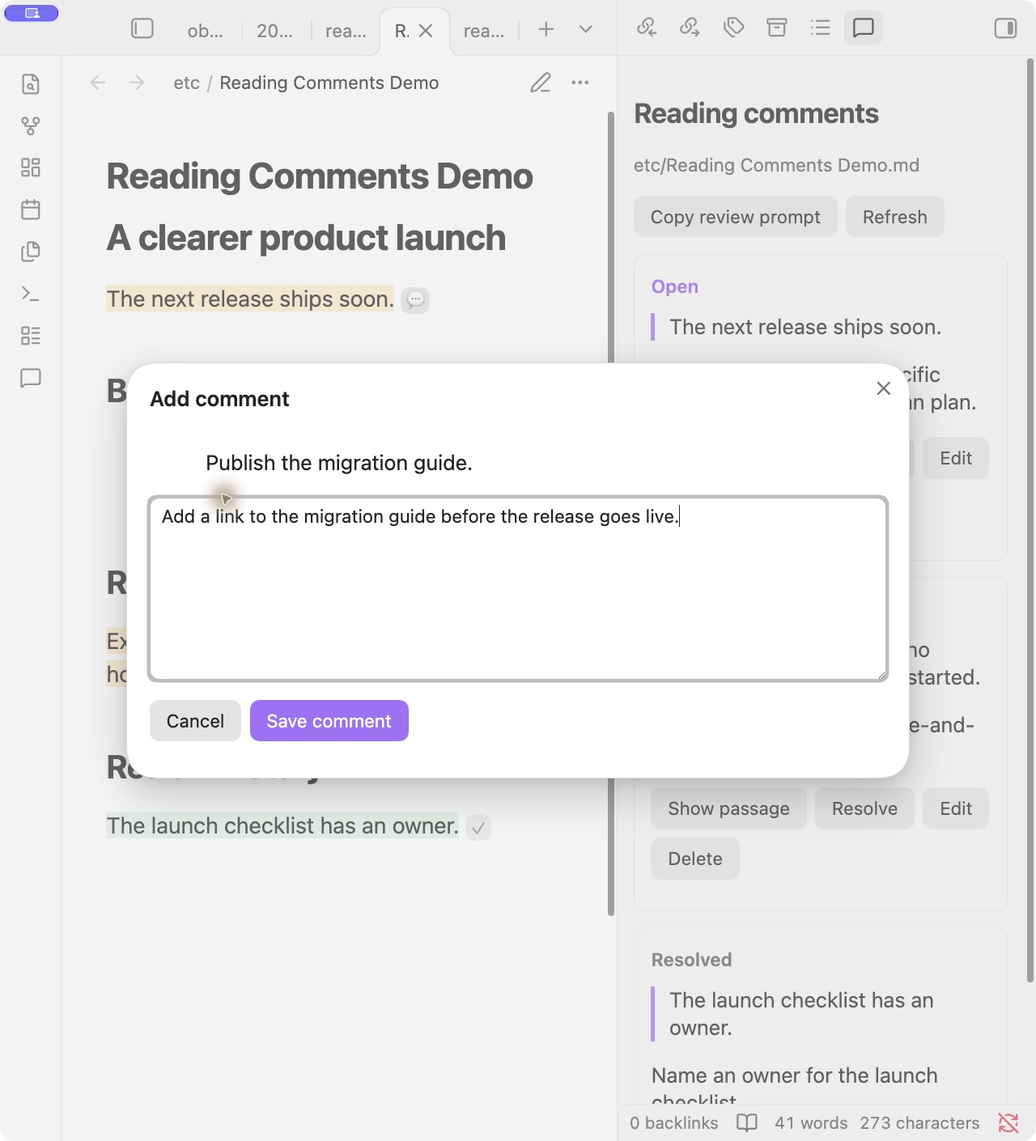
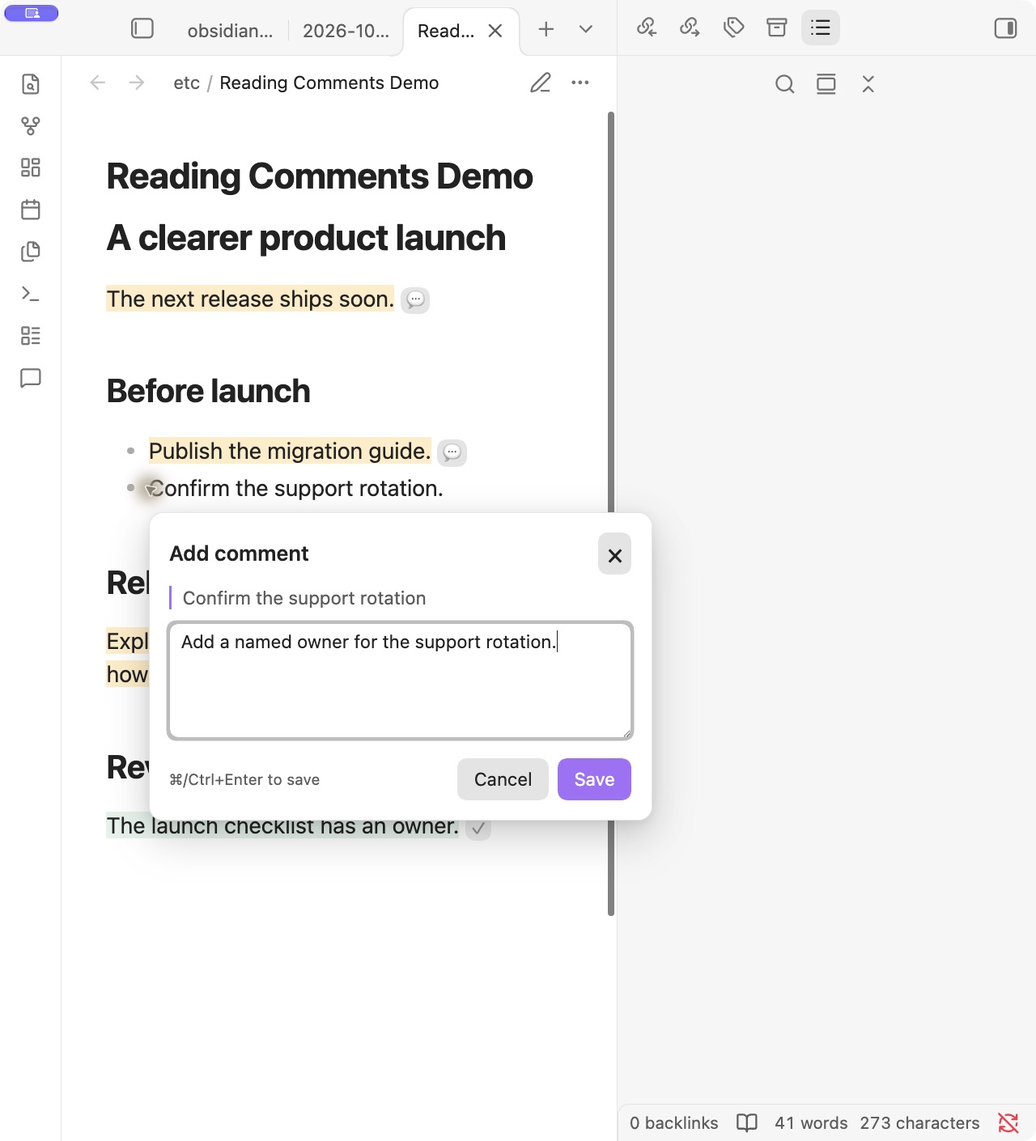
XXX-0: write passage feedback in a focused inline popup

diff --git a/test/plugin.test.ts b/test/plugin.test.ts
@@ -14,7 +14,7 @@ async function host(t){
  const proto=win.HTMLElement.prototype;
  proto.createEl=function(tag,opts={}){const el=win.document.createElement(tag);if(typeof opts==='string')opts={cls:opts};if(opts.text)el.textContent=opts.text;if(opts.cls)el.className=opts.cls;for(const [k,v]of Object.entries(opts.attr??{}))el.setAttribute(k,v);this.append(el);return el;};
  proto.createDiv=function(opts={}){return this.createEl('div',opts);};proto.empty=function(){this.replaceChildren();};proto.setText=function(t){this.textContent=t;};proto.addClass=function(c){this.classList.add(c);};proto.removeClass=function(c){this.classList.remove(c);};proto.scrollIntoView=function(){};
- win.Range.prototype.getBoundingClientRect=()=>({left:50,bottom:100});
+ win.Range.prototype.getBoundingClientRect=()=>({left:50,right:260,top:80,bottom:100,width:210,height:20});
  const rootDir=await mkdtemp(join(tmpdir(),'rc-plugin-'));
  class Adapter {
   getBasePath(){return rootDir;}
@@ -28,12 +28,13 @@ async function host(t){
  class MarkdownView {file={path:'Review sample.md'};contentEl=win.document.querySelector('.workspace-leaf-content');containerEl=this.contentEl;getMode(){return 'preview';}}
  const markdown=new MarkdownView();const leaves=[{view:markdown}];const factories=new Map();const disposals=[];const notices=[];const clipboard={text:'',async writeText(s){this.text=s;}};
  const workspace={getLeavesOfType:type=>leaves.filter(l=>type==='markdown'?l.view instanceof MarkdownView:l.view.getViewType?.()===type),getActiveViewOfType:()=>markdown,on:()=>({}),onLayoutReady:f=>f(),async revealLeaf(){},getRightLeaf(){const leaf={async setViewState(state){this.view=factories.get(state.type)(this);}};leaves.push(leaf);return leaf;}};
- const app={vault:{adapter:new Adapter(),on:()=>({})},workspace};
+ const keymap={scopes:[],pushScope(scope){this.scopes.push(scope);},popScope(scope){this.scopes=this.scopes.filter(s=>s!==scope);}};
+ const app={keymap,vault:{adapter:new Adapter(),on:()=>({})},workspace};
  class Plugin {constructor(app){this.app=app;}register(f){disposals.push(f);}registerView(type,f){factories.set(type,f);}addRibbonIcon(){}addCommand(){}registerMarkdownPostProcessor(){}registerEvent(){}registerInterval(id){disposals.push(()=>win.clearInterval(id));}registerDomEvent(target,type,f){target.addEventListener(type,f);disposals.push(()=>target.removeEventListener(type,f));}}
  class ItemView {constructor(leaf){this.leaf=leaf;this.contentEl=win.document.body.createDiv();}}
  class Modal {constructor(){this.modalEl=win.document.body.createDiv({cls:'modal'});this.titleEl=this.modalEl.createEl('h2');this.contentEl=this.modalEl.createDiv();}open(){this.onOpen();}close(){this.onClose?.();this.modalEl.remove();}}
  const module={exports:{}};
- vm.runInNewContext(code,{module,exports:module.exports,require:()=>({Plugin,MarkdownView,ItemView,Modal,FileSystemAdapter:Adapter,Notice:class{constructor(s){notices.push(s);}}}),window:win,document:win.document,navigator:{clipboard},crypto,console});
+ vm.runInNewContext(code,{module,exports:module.exports,require:()=>({Plugin,MarkdownView,ItemView,Modal,Scope:class{},FileSystemAdapter:Adapter,Notice:class{constructor(s){notices.push(s);}}}),window:win,document:win.document,navigator:{clipboard},crypto,console});
  const plugin=new module.exports.default(app);await plugin.onload();await plugin.refresh();
  t.after(()=>{plugin.onunload();for(const f of disposals)f();dom.window.close();});
  return {plugin,dom,win,markdown,app,root:markdown.contentEl.querySelector('.markdown-preview-view'),rootDir,notices,clipboard};
@@ -45,7 +46,7 @@ test('Reading view selection opens composer, persists comment, resolves, reopens
  root.dispatchEvent(new win.MouseEvent('mouseup',{bubbles:true}));
  assert.ok(win.document.querySelector('textarea'), 'Highlighting opens the composer without a button click');
  assert.equal(win.document.querySelector('.rc-add-comment'),null);
- const input=win.document.querySelector('textarea');input.value='Use a date';input.dispatchEvent(new win.KeyboardEvent('keydown',{key:'Enter',metaKey:true,bubbles:true}));
+ const input=win.document.querySelector('textarea');assert.equal(win.document.activeElement,input,'Typing must go straight into the comment');assert.equal(win.document.querySelector('.modal'),null);input.value='Use a date';input.dispatchEvent(new win.KeyboardEvent('keydown',{key:'Enter',metaKey:true,bubbles:true}));
  let saved;for(let i=0;i<50;i++){try{saved=JSON.parse(await readFile(join(rootDir,'.comments/Review sample.md.comments.json'),'utf8'));break;}catch{await new Promise(r=>setTimeout(r,10));}}
  assert.equal(saved.comments[0].comment,'Use a date');assert.equal(saved.comments[0].resolved,false);
  await plugin.refresh();assert.ok(win.document.querySelector('.rc-marker'));
@@ -85,12 +86,58 @@ test('a selection opens one composer and unrelated mouse releases do not reopen 
  const {plugin,win,root}=await host(t);
  const range=win.document.createRange();range.selectNodeContents(root.querySelector('p'));win.getSelection().addRange(range);
  win.document.body.dispatchEvent(new win.MouseEvent('mouseup',{bubbles:true}));
- assert.equal(win.document.querySelectorAll('.modal').length,0);
+ assert.equal(win.document.querySelectorAll('.rc-popup').length,0);
  root.dispatchEvent(new win.MouseEvent('mouseup',{bubbles:true}));
  root.dispatchEvent(new win.MouseEvent('mouseup',{bubbles:true}));
- assert.equal(win.document.querySelectorAll('.modal').length,1);
- [...win.document.querySelectorAll('.modal button')].find(b=>b.textContent==='Cancel').click();
- assert.equal(win.document.querySelectorAll('.modal').length,0);
+ assert.equal(win.document.querySelectorAll('.rc-popup').length,1);
+ [...win.document.querySelectorAll('.rc-popup button')].find(b=>b.textContent==='Cancel').click();
+ assert.equal(win.document.querySelectorAll('.rc-popup').length,0);
  win.document.body.dispatchEvent(new win.MouseEvent('mouseup',{bubbles:true}));
- assert.equal(win.document.querySelectorAll('.modal').length,0);
+ assert.equal(win.document.querySelectorAll('.rc-popup').length,0);
+});
+
+test('popup appears beside the selection, focuses typing immediately, and Escape cancels',async t=>{
+ const {plugin,win,root}=await host(t);
+ const range=win.document.createRange();range.selectNodeContents(root.querySelector('p'));win.getSelection().addRange(range);
+ root.dispatchEvent(new win.MouseEvent('mouseup',{bubbles:true}));
+ const popup=win.document.querySelector('.rc-popup');assert.ok(popup);assert.equal(popup.style.left,'50px');assert.equal(popup.style.top,'108px');
+ const input=popup.querySelector('textarea');assert.equal(win.document.activeElement,input);
+ assert.equal(popup.getAttribute('aria-modal'),'false');assert.equal(win.document.querySelector('.modal'),null);
+ input.value='Immediate typing';input.dispatchEvent(new win.KeyboardEvent('keydown',{key:'Escape',bubbles:true}));
+ assert.equal(win.document.querySelector('.rc-popup'),null);assert.equal(plugin.composer,null);
+});
+test('outside click closes popup and unload removes its listeners and UI',async t=>{
+ const {plugin,win,root}=await host(t);
+ const select=()=>{const range=win.document.createRange();range.selectNodeContents(root.querySelector('p'));win.getSelection().addRange(range);root.dispatchEvent(new win.MouseEvent('mouseup',{bubbles:true}));};
+ select();win.document.body.dispatchEvent(new win.MouseEvent('pointerdown',{bubbles:true}));
+ assert.equal(win.document.querySelector('.rc-popup'),null);
+ select();assert.ok(win.document.querySelector('.rc-popup'));plugin.onunload();
+ assert.equal(win.document.querySelector('.rc-popup'),null);
+ win.document.dispatchEvent(new win.KeyboardEvent('keydown',{key:'Escape',bubbles:true}));
+ assert.equal(plugin.composer,null);
+});
+test('editing anchors the popup in the sidebar window rather than the note window',async t=>{
+ const {plugin,win}=await host(t);await plugin.store.add('Review sample.md',comment);await plugin.refresh();
+ const other=new JSDOM('<body><button>Edit</button></body>');t.after(()=>other.window.close());
+ for(const name of ['createEl','createDiv','empty','setText','addClass','removeClass'])other.window.HTMLElement.prototype[name]=win.HTMLElement.prototype[name];
+ const button=other.window.document.querySelector('button');plugin.edit('one',button);
+ assert.ok(other.window.document.querySelector('.rc-popup'));assert.equal(win.document.querySelector('.rc-popup'),null);
+ assert.equal(other.window.document.activeElement,other.window.document.querySelector('textarea'));
+});
+test('popup repositions when its content size changes and disconnects its observer on close',async t=>{
+ const {plugin,win,root}=await host(t);let resize,disconnected=false;
+ win.ResizeObserver=class{constructor(callback){resize=callback;}observe(){}disconnect(){disconnected=true;}};
+ Object.defineProperty(win,'innerHeight',{value:500,configurable:true});
+ win.Range.prototype.getBoundingClientRect=()=>({left:50,right:260,top:350,bottom:370,width:210,height:20});
+ const range=win.document.createRange();range.selectNodeContents(root.querySelector('p'));win.getSelection().addRange(range);root.dispatchEvent(new win.MouseEvent('mouseup',{bubbles:true}));
+ const popup=win.document.querySelector('.rc-popup');assert.equal(popup.style.top,'92px');
+ popup.getBoundingClientRect=()=>({width:360,height:400});assert.equal(typeof resize,'function');resize();assert.equal(popup.style.top,'12px');
+ plugin.composer.close();assert.equal(disconnected,true);
+});
+
+test('the focused popup isolates Reading view keyboard shortcuts and restores their scope on close',async t=>{
+ const {plugin,win,root,app}=await host(t);
+ const range=win.document.createRange();range.selectNodeContents(root.querySelector('p'));win.getSelection().addRange(range);root.dispatchEvent(new win.MouseEvent('mouseup',{bubbles:true}));
+ assert.equal(app.keymap.scopes.length,1);assert.equal(win.document.activeElement,win.document.querySelector('.rc-popup textarea'));
+ plugin.composer.close();assert.equal(app.keymap.scopes.length,0);
 });

diff --git a/src/composer.ts b/src/composer.ts
@@ -1,28 +1,68 @@
-import { App, Modal, Notice } from 'obsidian';
-export class CommentComposer extends Modal {
+import { type App, Notice, Scope } from 'obsidian';
+import {popupPosition,type PopupAnchor} from './popupPosition.ts';
+export interface ComposerPlacement {doc:Document;anchor:()=>PopupAnchor}
+export class CommentComposer {
+ private app:App;
  private quote:string;
  private initial:string;
  private save:(text:string)=>Promise<void>;
  private closed:()=>void;
- constructor(app:App,quote:string,initial:string,save:(text:string)=>Promise<void>,closed:()=>void=()=>{}){super(app);this.quote=quote;this.initial=initial;this.save=save;this.closed=closed;}
- onOpen():void {
-  this.titleEl.setText(this.initial?'Edit comment':'Add comment');
-  this.contentEl.createEl('blockquote',{text:this.quote});
-  const input=this.contentEl.createEl('textarea',{cls:'rc-composer',attr:{placeholder:'What should change?','aria-label':'Comment',rows:'5'}});
+ private placement?:ComposerPlacement;
+ private popup:HTMLElement|null=null;
+ private cleanups:Array<()=>void>=[];
+ private saving=false;
+ constructor(_app:App,quote:string,initial:string,save:(text:string)=>Promise<void>,closed:()=>void=()=>{},placement?:ComposerPlacement){
+  this.app=_app;this.quote=quote;this.initial=initial;this.save=save;this.closed=closed;this.placement=placement;
+ }
+ open():void {
+  if(this.popup)return;
+  const doc=this.placement?.doc??document,win=doc.defaultView;
+  if(!win)return;
+  const popup=doc.body.createDiv({cls:'rc-ui rc-popup',attr:{role:'dialog','aria-modal':'false','aria-label':this.initial?'Edit comment':'Add comment'}});
+  this.popup=popup;
+  const scope=new Scope();this.app.keymap.pushScope(scope);this.cleanups.push(()=>this.app.keymap.popScope(scope));
+  const heading=popup.createDiv({cls:'rc-popup-heading'});
+  heading.createEl('strong',{text:this.initial?'Edit comment':'Add comment'});
+  const dismiss=heading.createEl('button',{text:'×',cls:'rc-popup-close',attr:{'aria-label':'Cancel comment'}});
+  dismiss.onclick=()=>{if(!this.saving)this.close();};
+  popup.createEl('blockquote',{text:this.quote,cls:'rc-popup-quote'});
+  const input=popup.createEl('textarea',{cls:'rc-composer',attr:{placeholder:'What should change?','aria-label':'Comment',rows:'3'}});
   input.value=this.initial;
-  const actions=this.contentEl.createDiv({cls:'rc-actions'});
-  const cancel=actions.createEl('button',{text:'Cancel'});cancel.onclick=()=>this.close();
-  const save=actions.createEl('button',{text:'Save comment',cls:'mod-cta'});
-  let saving=false;
+  const actions=popup.createDiv({cls:'rc-actions'});
+  actions.createEl('span',{text:'⌘/Ctrl+Enter to save',cls:'rc-popup-hint'});
+  const cancel=actions.createEl('button',{text:'Cancel'});cancel.onclick=()=>{if(!this.saving)this.close();};
+  const save=actions.createEl('button',{text:'Save',cls:'mod-cta'});
   const submit=async()=>{
-   if(saving || !input.value.trim()) {input.focus();return;}
-   saving=true;save.disabled=true;cancel.disabled=true;input.disabled=true;
-   try {await this.save(input.value.trim());this.close();} catch(error){new Notice(error instanceof Error?error.message:String(error));}
-   finally {saving=false;save.disabled=false;cancel.disabled=false;input.disabled=false;}
+   if(this.saving || !input.value.trim()){input.focus({preventScroll:true});return;}
+   this.saving=true;save.disabled=true;cancel.disabled=true;dismiss.disabled=true;input.disabled=true;
+   try{await this.save(input.value.trim());this.close();}
+   catch(error){new Notice(error instanceof Error?error.message:String(error));}
+   finally{this.saving=false;save.disabled=false;cancel.disabled=false;dismiss.disabled=false;input.disabled=false;if(this.popup)input.focus({preventScroll:true});}
   };
   save.onclick=()=>{void submit();};
-  input.onkeydown=e=>{if(e.key==='Enter' && (e.metaKey||e.ctrlKey) && !e.isComposing){e.preventDefault();void submit();}};
-  input.focus();
+  input.onkeydown=event=>{
+   if(event.key==='Enter' && (event.metaKey||event.ctrlKey) && !event.isComposing){event.preventDefault();event.stopPropagation();void submit();}
+  };
+  const position=()=>{
+   const anchor=this.placement?.anchor()??{left:(win.innerWidth-360)/2,top:win.innerHeight/3,bottom:win.innerHeight/3};
+   const bounds=popup.getBoundingClientRect();
+   const {left,top}=popupPosition(anchor,bounds.width||Math.min(360,win.innerWidth-24),bounds.height||250,win.innerWidth,win.innerHeight);
+   popup.style.left=`${left}px`;popup.style.top=`${top}px`;
+  };
+  const outside=(event:Event)=>{if(!this.saving && !popup.contains(event.target as Node))this.close();};
+  const escape=(event:KeyboardEvent)=>{if(event.key==='Escape' && !this.saving){event.preventDefault();event.stopPropagation();this.close();}};
+  doc.addEventListener('pointerdown',outside,true);doc.addEventListener('keydown',escape,true);
+  win.addEventListener('resize',position);doc.addEventListener('scroll',position,true);
+  this.cleanups.push(()=>doc.removeEventListener('pointerdown',outside,true),()=>doc.removeEventListener('keydown',escape,true),()=>win.removeEventListener('resize',position),()=>doc.removeEventListener('scroll',position,true));
+  const Observer=(win as unknown as {ResizeObserver?:typeof ResizeObserver}).ResizeObserver;
+  if(Observer){const observer=new Observer(position);observer.observe(popup);this.cleanups.push(()=>observer.disconnect());}
+  position();
+  input.focus({preventScroll:true});
+  input.setSelectionRange(input.value.length,input.value.length);
  }
- onClose():void {this.contentEl.empty();this.closed();}
+ close():void {
+  if(!this.popup)return;
+  for(const cleanup of this.cleanups.splice(0))cleanup();
+  this.popup.remove();this.popup=null;this.closed();
+ }
 }

diff --git a/src/main.ts b/src/main.ts
@@ -23,7 +23,7 @@ export default class ReadingComments extends Plugin {
   this.store=new ReviewStore(this.app.vault.adapter);
   this.registerView(SIDEBAR,leaf=>new CommentsSidebar(leaf,{
    copy:()=>this.run(()=>this.copyPrompt()),refresh:()=>this.schedule(),jump:id=>this.jump(id),
-   edit:id=>this.edit(id),toggle:id=>this.run(()=>this.toggle(id)),remove:id=>this.run(()=>this.remove(id)),
+   edit:(id,anchor)=>this.edit(id,anchor),toggle:id=>this.run(()=>this.toggle(id)),remove:id=>this.run(()=>this.remove(id)),
   }));
   this.addRibbonIcon('message-square','Open reading comments',()=>{void this.openSidebar();});
   this.addCommand({id:'open-comments',name:'Open reading comments',callback:()=>{void this.openSidebar();}});
@@ -67,7 +67,7 @@ export default class ReadingComments extends Plugin {
    if(view.file?.path!==source)throw new Error('The note changed or moved. Select the passage again.');
    await this.store.add(source,createComment(captured.quote,text,captured.line,captured.endLine,captured.anchor));
    doc.getSelection()?.removeAllRanges();await this.openSidebar();await this.refresh();
-  },()=>{doc.getSelection()?.removeAllRanges();this.composer=null;});
+  },()=>{doc.getSelection()?.removeAllRanges();this.composer=null;},{doc,anchor:()=>range.getBoundingClientRect()});
   this.composer=modal;modal.open();
  }
  private async refresh():Promise<void> {
@@ -127,9 +127,12 @@ export default class ReadingComments extends Plugin {
  }
  private async toggle(id:string):Promise<void>{const {comment,source,snapshot}=this.current(id);await this.store.update(source,snapshot.raw,f=>setResolved(f,id,!comment.resolved));await this.refresh();}
  private async remove(id:string):Promise<void>{const {source,snapshot}=this.current(id);await this.store.update(source,snapshot.raw,f=>({...f,comments:f.comments.filter(c=>c.id!==id)}));await this.refresh();}
- private edit(id:string):void {
+ private edit(id:string,anchor?:HTMLElement):void {
   if(this.composer)return;
-  this.run(async()=>{const {comment,source,snapshot}=this.current(id);const modal=new CommentComposer(this.app,comment.highlightedText,comment.comment,async text=>{await this.store.update(source,snapshot.raw,f=>changeComment(f,id,c=>({...c,comment:text})));await this.refresh();},()=>{this.composer=null;});this.composer=modal;modal.open();});
+  const doc=anchor?.ownerDocument??this.selected?.containerEl.ownerDocument??document;
+  const card=anchor??Array.from(doc.querySelectorAll<HTMLElement>('[data-comment-id]')).find(el=>el.dataset.commentId===id);
+  const placement={doc,anchor:()=>card?.getBoundingClientRect()??{left:doc.defaultView!.innerWidth-380,top:80,bottom:100}};
+  this.run(async()=>{const {comment,source,snapshot}=this.current(id);const modal=new CommentComposer(this.app,comment.highlightedText,comment.comment,async text=>{await this.store.update(source,snapshot.raw,f=>changeComment(f,id,c=>({...c,comment:text})));await this.refresh();},()=>{this.composer=null;},placement);this.composer=modal;modal.open();});
  }
  private jump(id:string):void {
   const root=this.selected?this.root(this.selected):null;const range=root?this.painted.get(root)?.ranges.get(id):null;

diff --git a/src/sidebar.ts b/src/sidebar.ts
@@ -2,7 +2,7 @@ import {ItemView, WorkspaceLeaf} from 'obsidian';
 import type {ReviewComment} from './comments.ts';
 export const SIDEBAR='reading-comments-sidebar';
 export interface SidebarModel {source:string;comments:ReviewComment[];matches:Map<string,string>;error?:string}
-export interface SidebarActions {copy:()=>void;refresh:()=>void;jump:(id:string)=>void;edit:(id:string)=>void;toggle:(id:string)=>void;remove:(id:string)=>void}
+export interface SidebarActions {copy:()=>void;refresh:()=>void;jump:(id:string)=>void;edit:(id:string,anchor:HTMLElement)=>void;toggle:(id:string)=>void;remove:(id:string)=>void}
 export class CommentsSidebar extends ItemView {
  private actions:SidebarActions;
  constructor(leaf:WorkspaceLeaf,actions:SidebarActions){super(leaf);this.actions=actions;}
@@ -29,7 +29,7 @@ export class CommentsSidebar extends ItemView {
    const actions=card.createDiv({cls:'rc-actions'});
    const jump=actions.createEl('button',{text:'Show passage'});jump.disabled=match!=='found';jump.onclick=()=>this.actions.jump(comment.id);
    actions.createEl('button',{text:comment.resolved?'Reopen':'Resolve'}).onclick=()=>this.actions.toggle(comment.id);
-   actions.createEl('button',{text:'Edit'}).onclick=()=>this.actions.edit(comment.id);
+   const edit=actions.createEl('button',{text:'Edit'});edit.onclick=()=>this.actions.edit(comment.id,edit);
    actions.createEl('button',{text:'Delete'}).onclick=()=>this.actions.remove(comment.id);
   }
  }

diff --git a/styles.css b/styles.css
@@ -14,4 +14,10 @@
 .rc-warning, .rc-error { color: var(--text-warning); }
 .rc-help { color: var(--text-muted); }
 .rc-focused { outline: 2px solid var(--interactive-accent); }
-.rc-composer { width: 100%; min-height: 130px; resize: vertical; }
+.rc-popup { position: fixed; z-index: 1000; width: min(360px, calc(100vw - 24px)); max-height: calc(100vh - 24px); overflow-y: auto; box-sizing: border-box; padding: 14px; border: 1px solid var(--background-modifier-border); border-radius: 10px; background: var(--background-primary); box-shadow: var(--shadow-l); color: var(--text-normal); }
+.rc-popup-heading { display: flex; align-items: center; justify-content: space-between; margin-bottom: 8px; }
+.rc-popup-close { padding: 0 6px; font-size: 20px; background: transparent; box-shadow: none; }
+.rc-popup-quote { max-height: 66px; overflow-y: auto; margin: 8px 0 10px; padding-inline-start: 8px; border-inline-start: 2px solid var(--interactive-accent); color: var(--text-muted); font-size: var(--font-smaller); }
+.rc-popup .rc-actions { align-items: center; justify-content: flex-end; margin-bottom: 0; }
+.rc-popup-hint { margin-inline-end: auto; color: var(--text-muted); font-size: 11px; }
+.rc-composer { width: 100%; min-height: 82px; resize: vertical; box-sizing: border-box; }

diff --git a/test/position.test.ts b/test/position.test.ts
@@ -1,0 +1,12 @@
+import {test} from 'node:test';
+import assert from 'node:assert/strict';
+import {popupPosition} from '../src/popupPosition.ts';
+test('popup stays below the selection when space permits',()=>{
+ assert.deepEqual(popupPosition({left:100,top:80,bottom:100},360,250,1000,800),{left:100,top:108});
+});
+test('popup flips above the selection near the viewport bottom',()=>{
+ assert.deepEqual(popupPosition({left:900,top:700,bottom:720},360,250,1000,800),{left:628,top:442});
+});
+test('popup remains inside a narrow or short viewport',()=>{
+ assert.deepEqual(popupPosition({left:-50,top:50,bottom:80},260,150,280,180),{left:12,top:12});
+});

diff --git a/src/popupPosition.ts b/src/popupPosition.ts
@@ -1,0 +1,9 @@
+export interface PopupAnchor {left:number;top:number;bottom:number}
+export function popupPosition(anchor:PopupAnchor,width:number,height:number,viewportWidth:number,viewportHeight:number):{left:number;top:number}{
+ const margin=12,gap=8;
+ const maxLeft=Math.max(margin,viewportWidth-width-margin);
+ const maxTop=Math.max(margin,viewportHeight-height-margin);
+ const below=anchor.bottom+gap;
+ const preferred=below+height<=viewportHeight-margin?below:anchor.top-height-gap;
+ return {left:Math.min(maxLeft,Math.max(margin,anchor.left)),top:Math.min(maxTop,Math.max(margin,preferred))};
+}

diff --git a/README.md b/README.md
@@ -26,7 +26,7 @@ For example, highlight “The next release ships soon,” comment “Replace ‘
 
 This plugin is installed manually; it is not listed in Obsidian’s community plugin directory. **You do not need Node.js or a build tool to install the release.**
 
-1. Download [reading-comments-0.1.1.zip](https://github.com/hello1101n/obsidian-reading-comments/releases/download/v0.1.1/reading-comments-0.1.1.zip) from the [release page](https://github.com/hello1101n/obsidian-reading-comments/releases/latest). Choose the plugin ZIP, not GitHub’s “Source code” archives.
+1. Download [reading-comments-0.1.2.zip](https://github.com/hello1101n/obsidian-reading-comments/releases/download/v0.1.2/reading-comments-0.1.2.zip) from the [release page](https://github.com/hello1101n/obsidian-reading-comments/releases/latest). Choose the plugin ZIP, not GitHub’s “Source code” archives.
 2. Extract it. The resulting `reading-comments` folder should contain `main.js`, `manifest.json`, and `styles.css`.
 3. Open your Obsidian vault’s `.obsidian/plugins/` directory. You can use the **Open plugins folder** folder icon in **Settings → Community plugins**. If navigating manually, show hidden folders to find `.obsidian`, and create `plugins` if it is missing.
 4. Copy the extracted `reading-comments` folder into `plugins`. The final layout should be:
@@ -40,15 +40,15 @@ This plugin is installed manually; it is not listed in Obsidian’s community pl
 
 5. Return to **Settings → Community plugins**, click **Reload plugins**, and enable **Reading Comments**. Restart Obsidian if it does not appear.
 6. Open a Markdown document and switch to **Reading view** using the view toggle in the note header.
-7. Highlight some text. The comment composer opens automatically; you’re ready to review.
+7. Highlight some text. A small comment popup opens beside the passage with its text field focused; start typing.
 
 Requires Obsidian **1.8.0 or newer** on desktop. The core workflow has been tested in Obsidian **1.14.5 on macOS**.
 
 ## Add your first comment
 
-1. Highlight a passage in Reading view. The comment composer opens as soon as you finish selecting.
+1. Highlight a passage in Reading view. A small popup opens beside the passage as soon as you finish selecting, with the comment field already focused. Start typing immediately.
 2. Write your feedback, then choose **Save comment** or press **Cmd+Enter** / **Ctrl+Enter**.
-3. Use **Escape** to cancel a draft.
+3. Use **Escape**, **Cancel**, or a click outside the popup to cancel a draft.
 
 The comments sidebar opens after saving. Open it again with the message icon in the ribbon or the **Reading Comments: Open reading comments** command.
 

diff --git a/docs/verification.md b/docs/verification.md
@@ -2,7 +2,7 @@
 
 ## Automated checks
 
-`npm test` passes 20 tests, and `npm run build` passes TypeScript checking and bundles the plugin. The plugin-host tests use jsdom, minimal Obsidian API substitutes, and a real temporary filesystem. They exercise selection → composer → saved JSON → Resolve → Reopen → copied prompt, external AI status edits, same-text DOM replacement, and stale refresh rejection.
+`npm test` passes 28 tests, and `npm run build` passes TypeScript checking and bundles the plugin. The plugin-host tests use jsdom, minimal Obsidian API substitutes, and a real temporary filesystem. They exercise selection → composer → saved JSON → Resolve → Reopen → copied prompt, external AI status edits, same-text DOM replacement, and stale refresh rejection.
 
 Independent review identified two refresh defects. Regression tests reproduced both, then passed after the fixes: annotations survive identical-text DOM rebuilds, and stale failed loads cannot overwrite newer state.
 
@@ -32,3 +32,7 @@ AI processing depends on the agent following the copied prompt. The plugin reads
 ## Automatic composer — v0.1.1
 
 Selecting a passage opens the composer directly. Regression tests cover saving without a button click, duplicate mouse releases, and cancelling without reopening from an unrelated click. Native Obsidian verification passed: selecting a list passage opened the composer without another click, Cmd+Enter saved the comment, and Escape cancelled a second selection without reopening it.
+
+## Anchored popup — v0.1.2
+
+The full-screen modal is replaced by a compact nonmodal popup beside the selected passage. Tests verify immediate textarea focus, viewport clamping and flipping, Escape and outside-click dismissal, duplicate prevention, saving, and cleanup. Native verification passed in Obsidian 1.14.5: highlighting a list passage opened the popup beside the quote, direct keyboard input entered the focused comment field without clicking, and Cmd+Enter saved the comment. Escape cancellation was also checked. The popup uses its own keyboard scope while open and restores it when closed.
